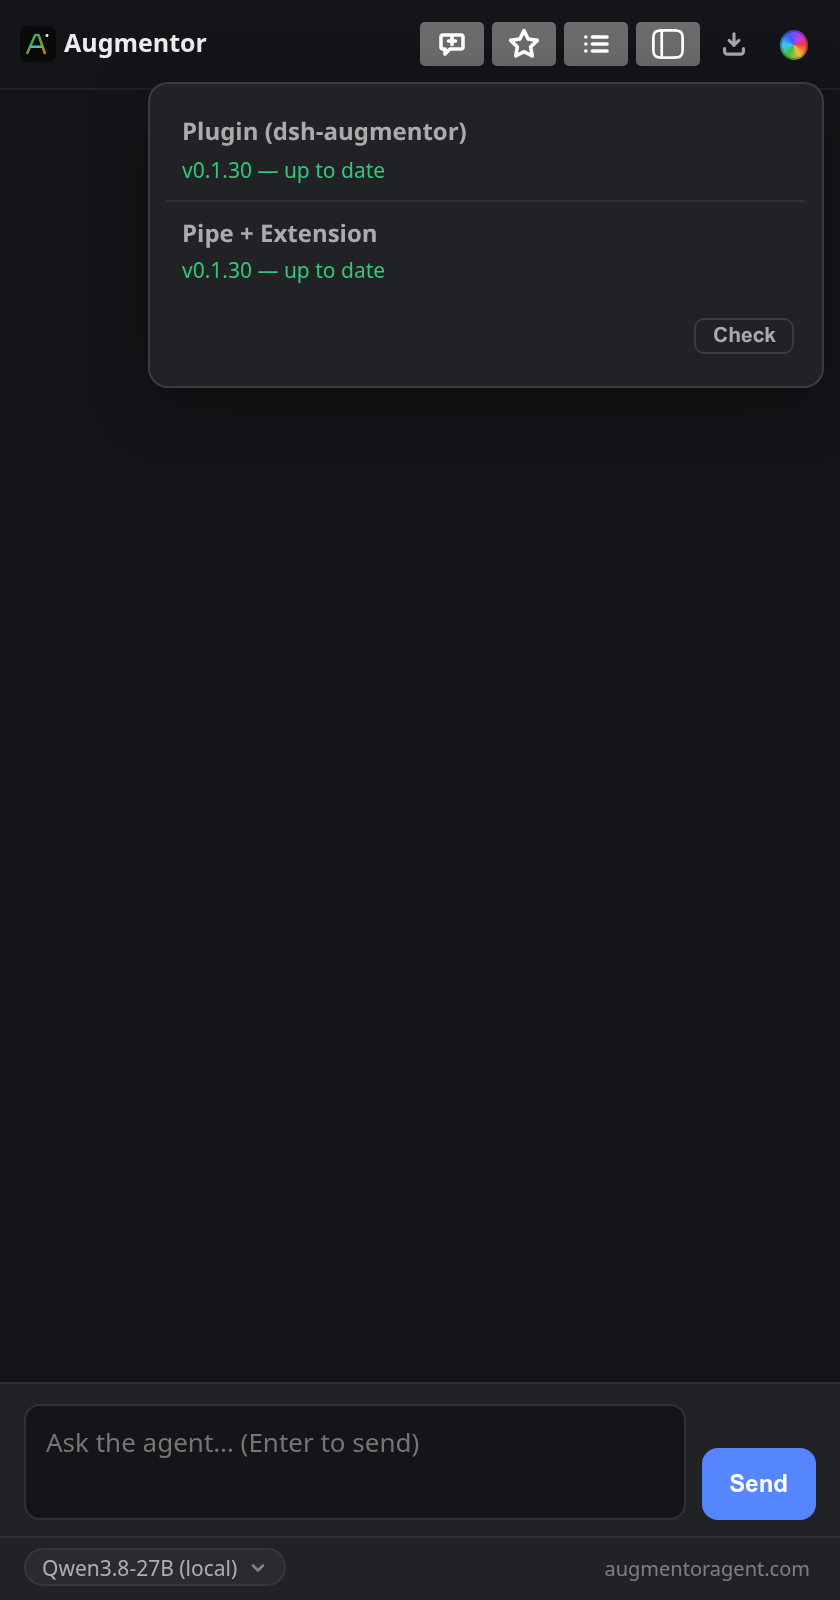
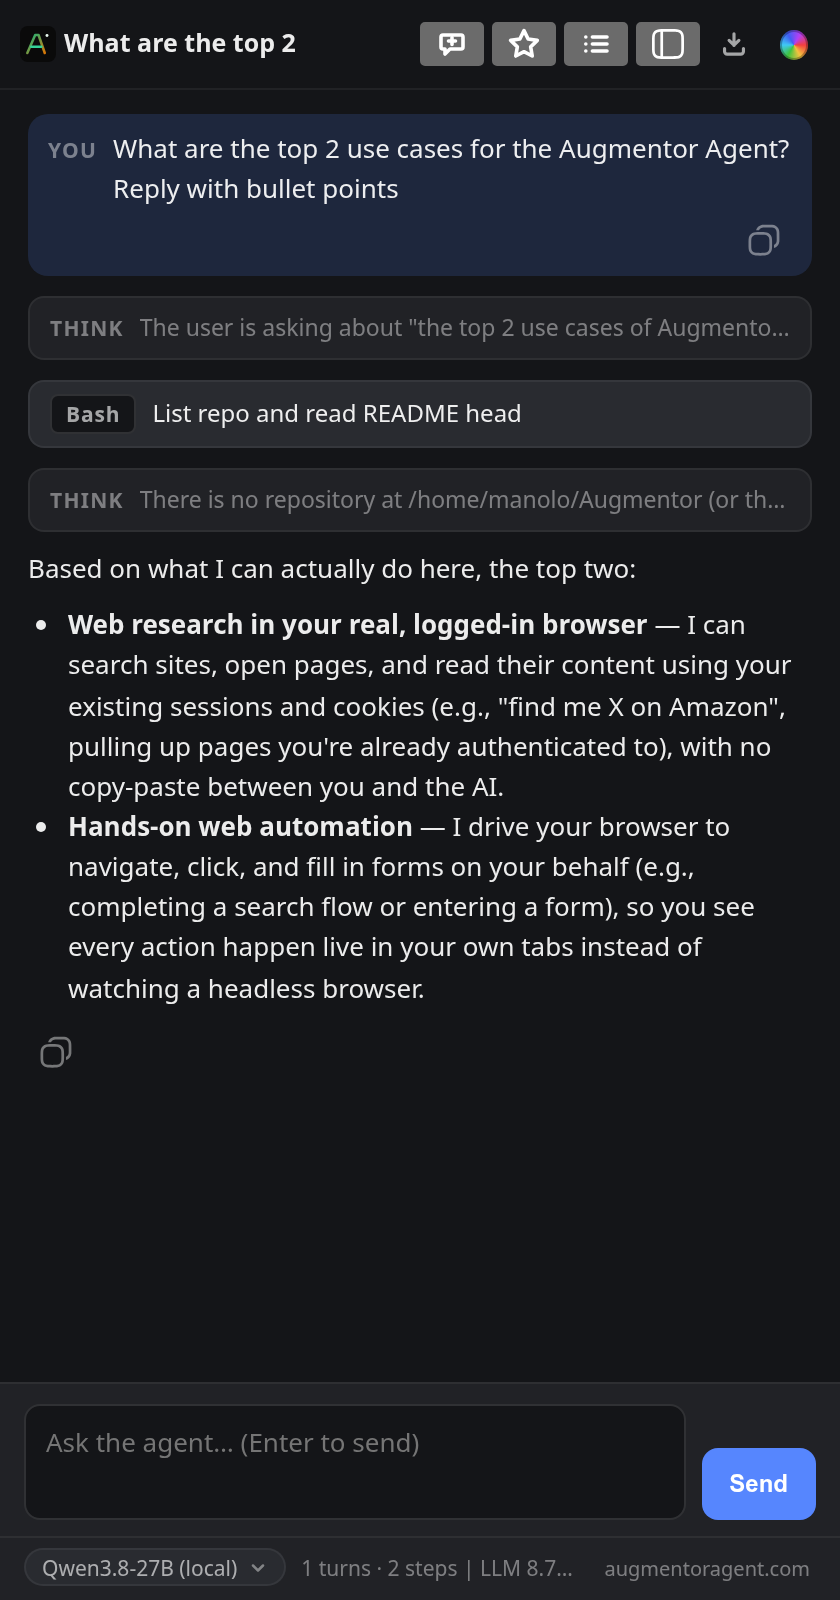
site: hero back to the agent doing its job
New real capture: the 0.1.30 side panel answering 'What are the top 2
use cases for the Augmentor Agent?' — two-bullet answer rendered by the
live app on the local model (think block collapsed, tool row visible).
The Updates button stays visible in the header; it just isn't the
subject of the shot anymore.

diff --git a/index.html b/index.html
@@ -123,7 +123,7 @@
                 <span class="dots"><span class="dot-c"></span><span class="dot-c"></span><span class="dot-c"></span></span>
                 <span class="url">Augmentor · side panel, live in your browser</span>
               </div>
-              <img class="shot shot-panel" src="assets/shot-panel.png?v=0.1.30" alt="Augmentor side panel in Chromium — the Updates section open: plugin, pipe, and extension all at v0.1.30, up to date, checked against npm and GitHub live" loading="lazy">
+              <img class="shot shot-panel" src="assets/shot-panel.png?v=2" alt="Augmentor side panel in Chromium — asked for its top two use cases, the agent answers live in two bullets: web research in your real, logged-in browser, and hands-on web automation" loading="lazy">
             </div>
             <p class="device-cap"><span class="dot-live"></span>the real side panel · live in your browser</p>
           </div>
